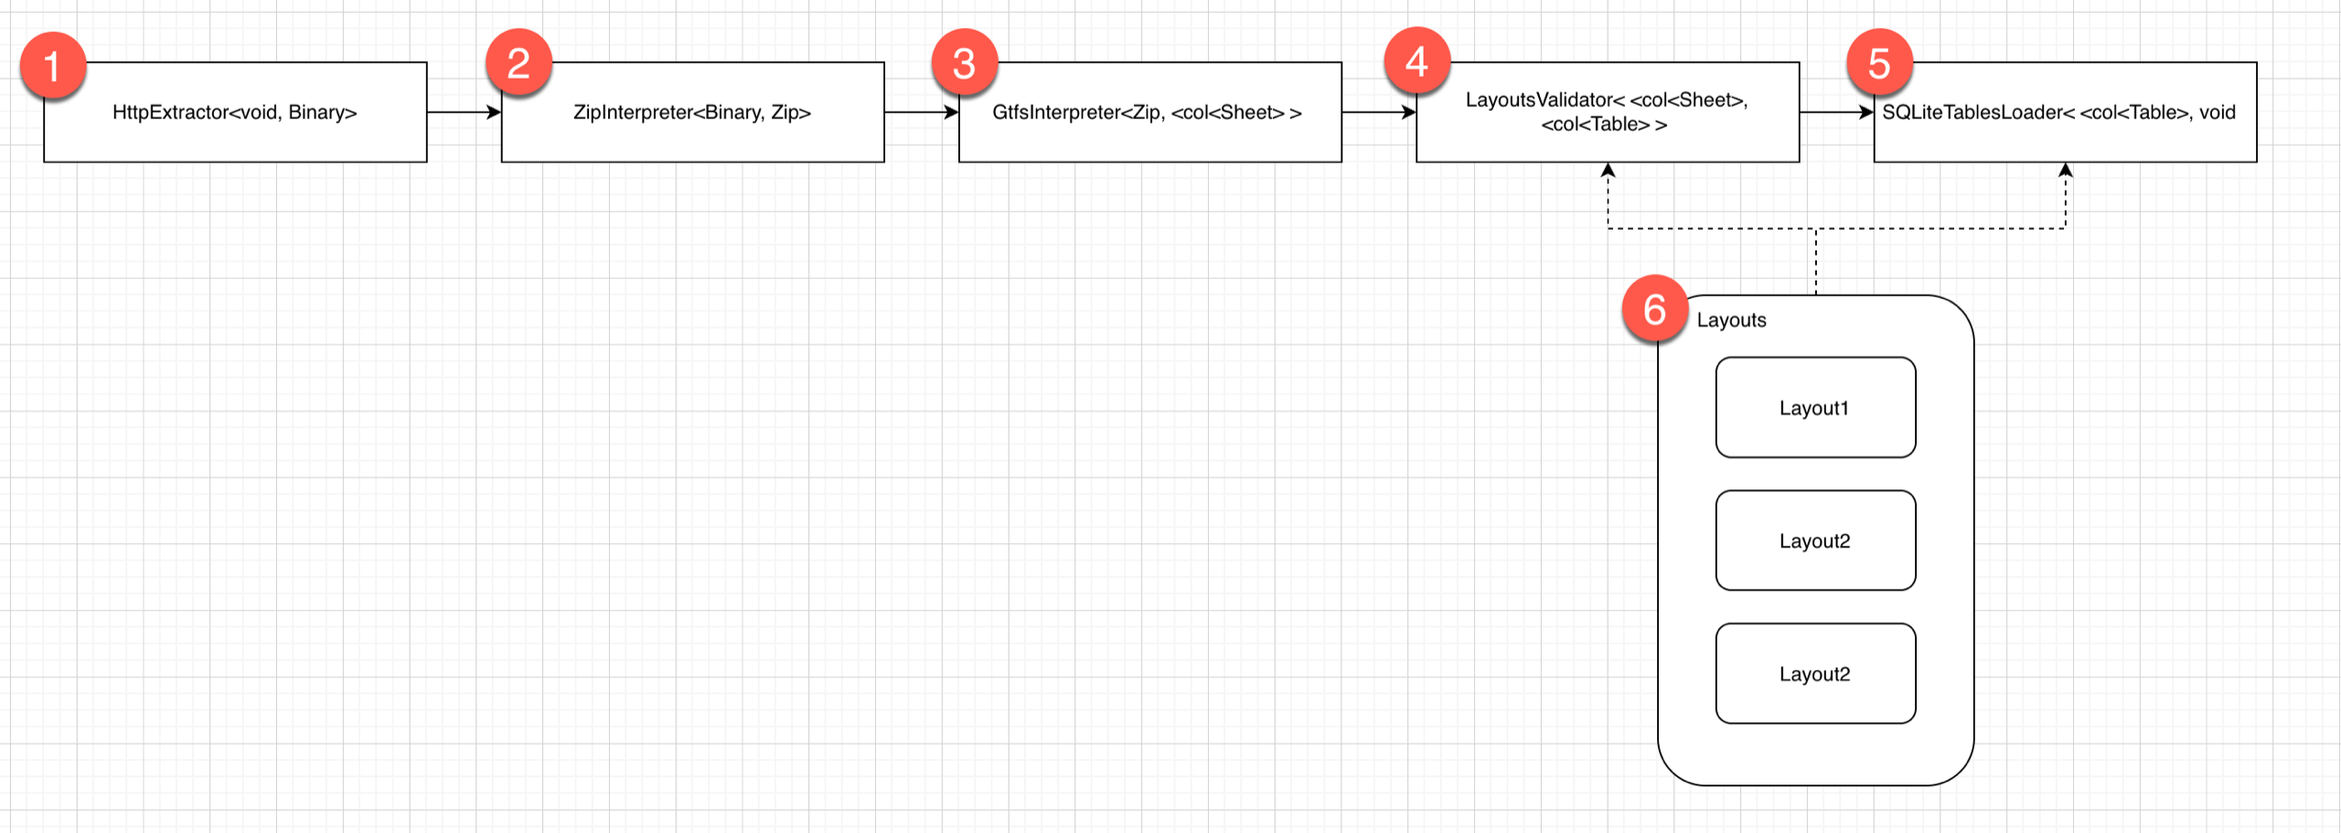
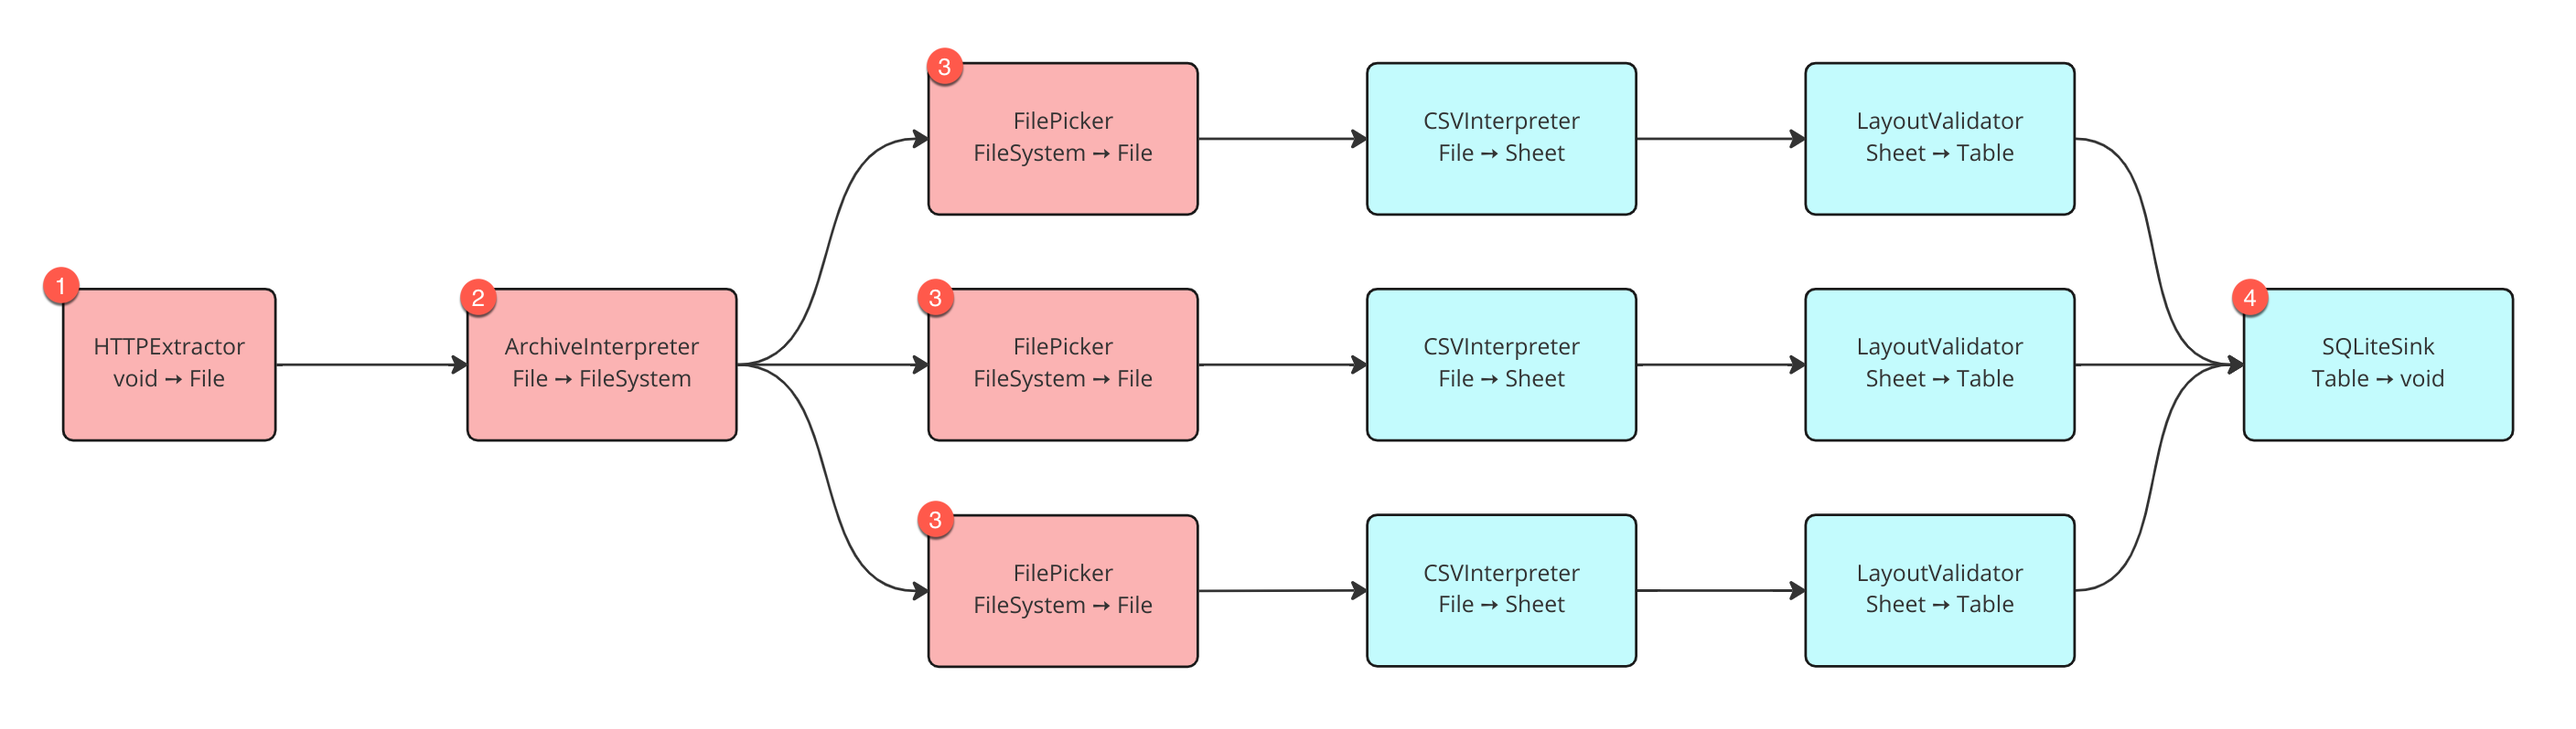
changed proposal to FileSystem-Approach

diff --git a/rfc/0002-mobility-extension.md b/rfc/0002-mobility-extension.md
@@ -1,7 +1,7 @@
 * Feature Name: mobility-extension
 * Status: `DISCUSSION`
 
-Disclaimer: This RFC is part of my master-thesis "Archiving open transport data using the JValue tooling ecosystem" supervised by @rhazn. I'll open an PR for that, in order to discuss the neccessary changes to Jayvee due to my implemenation.
+Disclaimer: This RFC is part of my master-thesis "Archiving open transport data using the JValue tooling ecosystem" supervised by @rhazn. This RFC is qualified via multiple iterative revisions.
 
 # Summary
 This RFC enables a pipeline extracting, validating and loading GTFS-data (part of domain mobility-data) by providing an GTFS-endpoint under consideration of the [GTFS-specification](https://developers.google.com/transit/gtfs/reference). For that reason some changes and extensions of Jayvee have to be made. The overall goal of this RFC is processing GTFS-data with a minimum of changes/extensions in Jayvee. 
@@ -11,82 +11,92 @@ GTFS has gained widespread popularity over the past decade as an open-source ind
 ![Visualization of a Gtfs data model](./0002-visualization-gtfs-datamodel.png)
 
 # Explanation
-The following picture is a visualization of the corresponding [gtfs.jv](0002-gtfs.jv)-file. A GTFS-pipeline follows the overall pipeline pattern, consisting of an Extractor, some Interpreters, a Validator and finally a Loader to a sink (in our case all gtfs-csv-files are loaded into a SQLite database, each csv-file into its corresponding table). 
+The following picture is a visualization of the corresponding [gtfs.jv](0002-gtfs.jv)-file. A GTFS-pipeline follows the overall pipeline pattern, consisting of an Extractor, an Interpreters, some Validators and finally a Loader to a sink (in our case all gtfs-csv-files are loaded into a SQLite database, each csv-file into its corresponding table). The individual GTFS files are picked out using their filename and further processed independently in parallel using block types that already exist (or at least in a similar form). In the image, there are three such parallel processing steps as an example. In practice, there would be one for each GTFS file in the ZIP archive. In case a file are not present, the further processing of that file is aborted and hence no table is created from that file. At the end, each successfully created table is loaded into the same SQLiteSink.
+
 ![Concept of a Gtfs Pipeline](./0002-visualization-gtfs-pipeline.png)
 
+The red block types need to be created from scratch whereas the blue block types are either already present or only require minor changes. 
+
 Jayvee needs to be extented by following parts to be able to process GTFS-data:
-* New `io-datatypes` called `Binary`, `Zip` and `Collection<iodatatypes>`, new `datatype` called `undefined`
-* a bunch of new blocktypes `HTTPExtractor`, `ZipInterpreter`, `GTFSInterpreter`, `LayoutsValidator`, `SQLiteTablesLoader`
-* a concept for processing collections of Sheets, Tables and Layouts
+* New `io-datatypes` called `File` and `FileSystem`
+* New blocktypes `HTTPExtractor`, `ArchiveInterpreter` and `FilePicker`
+* The  `io-datatype` `Table` needs to store its name to be able to handle multiple tables as input
+* An abort-mechanism must be implemented, when a block gets empty/null/undefined input (in our case FilePicker)
+* Blocks must be able to process multiple parallel inputs (in our case SQLiteSink), resulting in multiple executions of the same block.
 
 Each of the following subchapters explains the idea behind.
 
-## 0) New io-datatypes and datatypes
-### io-datatype Binary
-A Binary datatype could look like this and should be added to `io-datatypes.ts`.
+## New io-datatypes
+### io-datatype File
+A File datatype could look like this and should be added to `io-datatypes.ts`.
 ```
-export interface Binary {
-  data: ArrayBuffer;
+export interface File {
+  name: string // The name of the file, excluding its file extension
+  
+  extension: string //The file extension
+  
+  filetype: string //The MIME type of the file taken from the Content-Type header (for HTTP requests only) Otherwise inferred from the file extension, Could default to text/plain or application/octet-stream for unknown or missing file extensions
+  
+  content: string | ArrayBuffer //The content of the file as a string Or maybe a byte array instead
 }
 ```
-
-### io-datatype Zip
-A Zip datatype could look like this and should be added to `io-datatypes.ts`. The filename gets extraced from the data (along to the zip-standard)
+### io-datatype FileSystem
+A FileSystem could look like this and should be added to `io-datatypes.ts`. Provides generic methods for navigating in the file system using paths and for accessing files. Not sure, how to provide methods in an interface in `io-datatype.ts`?
 ```
-export interface Zip {
-  file_name: string;
-  data: ArrayBuffer;
+export interface FileSystem {
+  tbd
 }
 ```
-
-### io-datatype Collection
-A Collection concept could look like this and should be added to `io-datatypes.ts`. Each CollectionElement gets then wrapped in a Collection of CollectionElements, so we can have metadata for elements of collections such like a index and name of elements.
-
-Option 1 with metadata for CollectionElement:
+### io-datatype Table
+The io-datatype `Table` should be adapted, to store its name to be able to handle multiple tables as input
 ```
-export interface CollectionElement<T extends IOType> {
-  index: number;
-  name: string;
-  data: T;
-}
-
-export interface Collection<T extends IOType> {
-  collection: Array<CollectionElement<T>>;
+export interface Table {
+  tableName: string;
+  columnNames: string[];
+  columnTypes: Array<AbstractDataType | undefined>;
+  data: string[][];
 }
 ```
 
 ### datatype Undefined
 For an implementation of an optional-mechanism for eg. columns, we need a new datatype ´undefined´(Attention: Not talking about io-datatype, i mean datatype). Optional column's datatype would then be `text or undefined`. So we also need a grammar feature for an OR-represenation in Jayvee
 
-## 1) HttpExtractor
-Input: void, Output: Binary
 
-A HttpExtractors gets an Url, sends an HTTP-GET-REQUEST to that URL and outputs the response as an binary type (eg. ArrayBuffer). This block can be used for getting any binary data of an HTTP-Endpoint. It should be implemented in the std-extension.
+## New Block Types
+### 1) HttpExtractor
+Input: void, Output: File
+
+A HttpExtractors gets an Url, sends an HTTP-GET-REQUEST to that URL and outputs the response as `File`. This block can be used for getting any kind of data via a HTTP-Endpoint. It should be implemented in the std-extension.
 ```
 block MyHttpExtractor oftype HttpExtractor {
     url: "https://www.data.gouv.fr/fr/datasets/r/c4d9326f-9f41-4dfb-9746-31bc97a31fc6";
+    content-type: string //the expected content-type of the http-call
 }
 ```
 
-## 2) ZipInterpreter
-Input: Binary, Output: Zip
+### 2) ArchiveInterpreter
+Input: File, Output: FileSystem
 
-A ZipInterpreter gets a Binary type, and interpretes the ArrayBuffer as an zip-file. As it is not clear, what the zip-file contains, the unpacking of that zip-files takes places in the following GTFS-Interpreter, as GTFS specifies, that the zip-file must contain certain csv-files. Later on, the zip-unpacking could be refactored to an generic zip-unpacker. It should be implemented in the std-extension.
+A ArchiveInterpreter gets a File, and initializes an FileSystem ontop of the file (open filestream etc.). Provides generic methods for navigating in the file system using paths and for accessing files. As it is not clear, what the file contains. It should be implemented in the std-extension.
 ```
-block MyZipInterpreter oftype ZipInterpreter{
+block MyArchiveInterpreter oftype ArchiveInterpreter{
     tbd
 }
 ```
 
-## 3) GtfsInterpreter
-Input: Zip, Output: Collection of Sheets
+### 3) FilePicker
+Input: FileSystem, Output: File
 
-A GtfsInterpreter gets an zip-file, unpacks the zip-file and interprets every csv-file within the zip-file as a sheet. The output of that block is an collections of sheets. For that, we need a concept for handling collection of io-datatypes (in this case multiple sheets).
+A FilePicker gets an FileSystem, navigates to the file, and initializes an file via the path.
 ```
-block MyGtfsInterpreter oftype GtfsInterpreter{
-    tbd
+block MyFilePicker oftype FilePicker{
+    path: string // Absolute path to file (from the root folder) /agency.txt
 }
 ```
+
+### 4) SQLiteSink
+This Block needs to be adapted, to handle multiple Inputs. As the parallel processing of the differnt Files does not depend on each other, we potentially could use for every file an own SQLiteSink or we change the SQLiteSink to handle multiple tables as input by providing the table name via the io-datatype `Table` itself. TODO: Check logic for that.
+
 
 ## 4) LayoutsValidator
 Input: Collection of Sheets, Output: Collection of Tables
@@ -99,54 +109,4 @@ block GtfsValidator oftype LayoutsValidator {
 }
 ```
 
-### 4.1) Layout
-As GTFS defines a whole datamodel consisting of multiple dimensions, we can provide (in some future) the user with a predefined set of layouts. Some columns in GTFS-csv-files are optional and conditional optional.
-
-For an implementation of an optional mechanism, we present the optional columns with their datatype, e.g. saying their datatype is `text or undefined`. For that, we'd need an `undefined` datatype in Jayvee and a way to combine these types using an or-expression (see chapter 0).
-
-A vision is, that the GTFS-pipeline later on processes a list of GTFS-Endpoints. Because every endpoint has at least the required-columns, we need to have the optional-mechanism in our layout.
-
-In a GTFS-Validator, some conditional (aka logical) checks could possibly be applied during the validation (not just a static header/datatype validaton). This could be done by checking required columns. If in future an conditional required is not longer considered as required, we could also implement conditional logical validation. An example for that is the columns `agency_id` in table `agencies`. The specification states, that the `agency_id` is optional, when the whole dataset just contains data from one agency.
-
-In the specifiation, the order of the columns is not defined, so we need to access the columns by their names, not their index as every GTFS-endpoint could possibly have a different order!! 
-```
-layout agencyLayout {
-    header row 1: text;
-    column agency_id: text; //Conditional columns are considered as required
-    column agency_name: text;
-    column agency_url: text;
-    column agency_timezone: text;
-    column agency_lang: text or undefined; //Optional column marked with or
-    column agency_phone: text or undefined; //Optional column marked with or
-    column agency_fare_url: text or undefined; //Optional column marked with or
-    column agency_email: text or undefined; //Optional column marked with or
-}
-```
-
-Potentially, we need in future an optional-mechanism for whole layouts (not just columns) as well, since also some gtfs-dimensions are optional/conditional required. This is not part of this RFC right now, as my [.jv-file](0002-gtfs.jv) just consists of required dimensions. Could be extended later...
-
-### 4.2) Layouts
-As we want to process a zip-file containing multiple csv-files, we also need a mechanism to map csv-files to layouts. In my [.jv-file](0002-gtfs.jv), every layout gets defined as usual (header, column, datatypes --> please have look at chapter 4.1). Multiple layouts get then wrapped in a new grammar-feature, which maps csv-filenames to layouts. This layouts-artefact gets referenced by `SQLiteTablesLoader` and `LayoutsValidator`, too.
-```
-layouts gtfsLayouts {
-    "agency": agencyLayout;
-    "stops": stopsLayout;
-    "routes": routesLayout;
-    "trips": tripsLayout;
-    "stop_times": stop_timesLayout;
-    "calendar_dates": calendar_datesLayout;
-    "feed_info": feed_infoLayout;
-}
-```
-This mapping is later also used in the `SQLiteTablesLoader`, to define the output-table-names. The syntax for `layouts` is inspired by the MyTableBuilder-syntax from issue RFC for cell ranges #109
-
-## 5) SQLiteTablesLoader
-Input: Collection of Tables, Output: void
-
-A SQLiteTablesLoader (Attention: here we talk about multiple SQLiteTables) gets as input an collection of tables. Every table gets then loaded to a corresponding SQLiteTable using the SQLiteLoader (for single table). The mapping as well as the table_output_names are defined by the layouts-keys.
-```
-block GtfsLoader oftype SQLiteTablesLoader {
-    file: "./gtfs.db";
-}
-```
 
